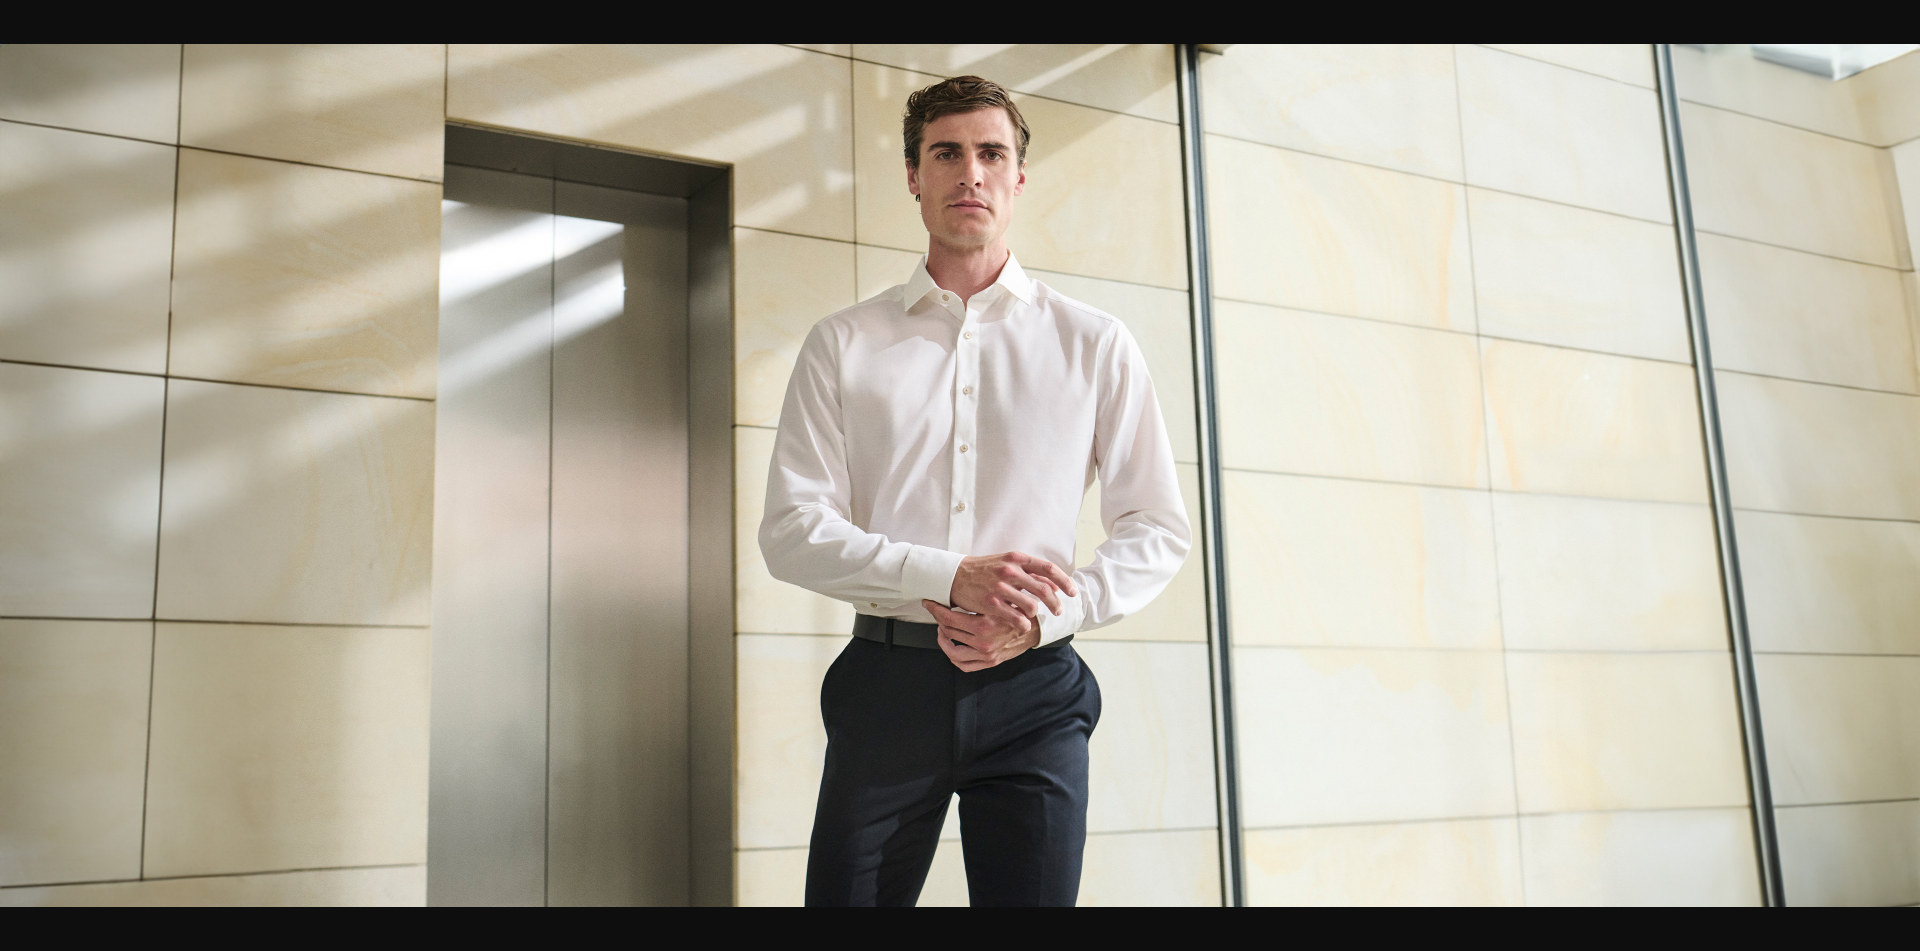
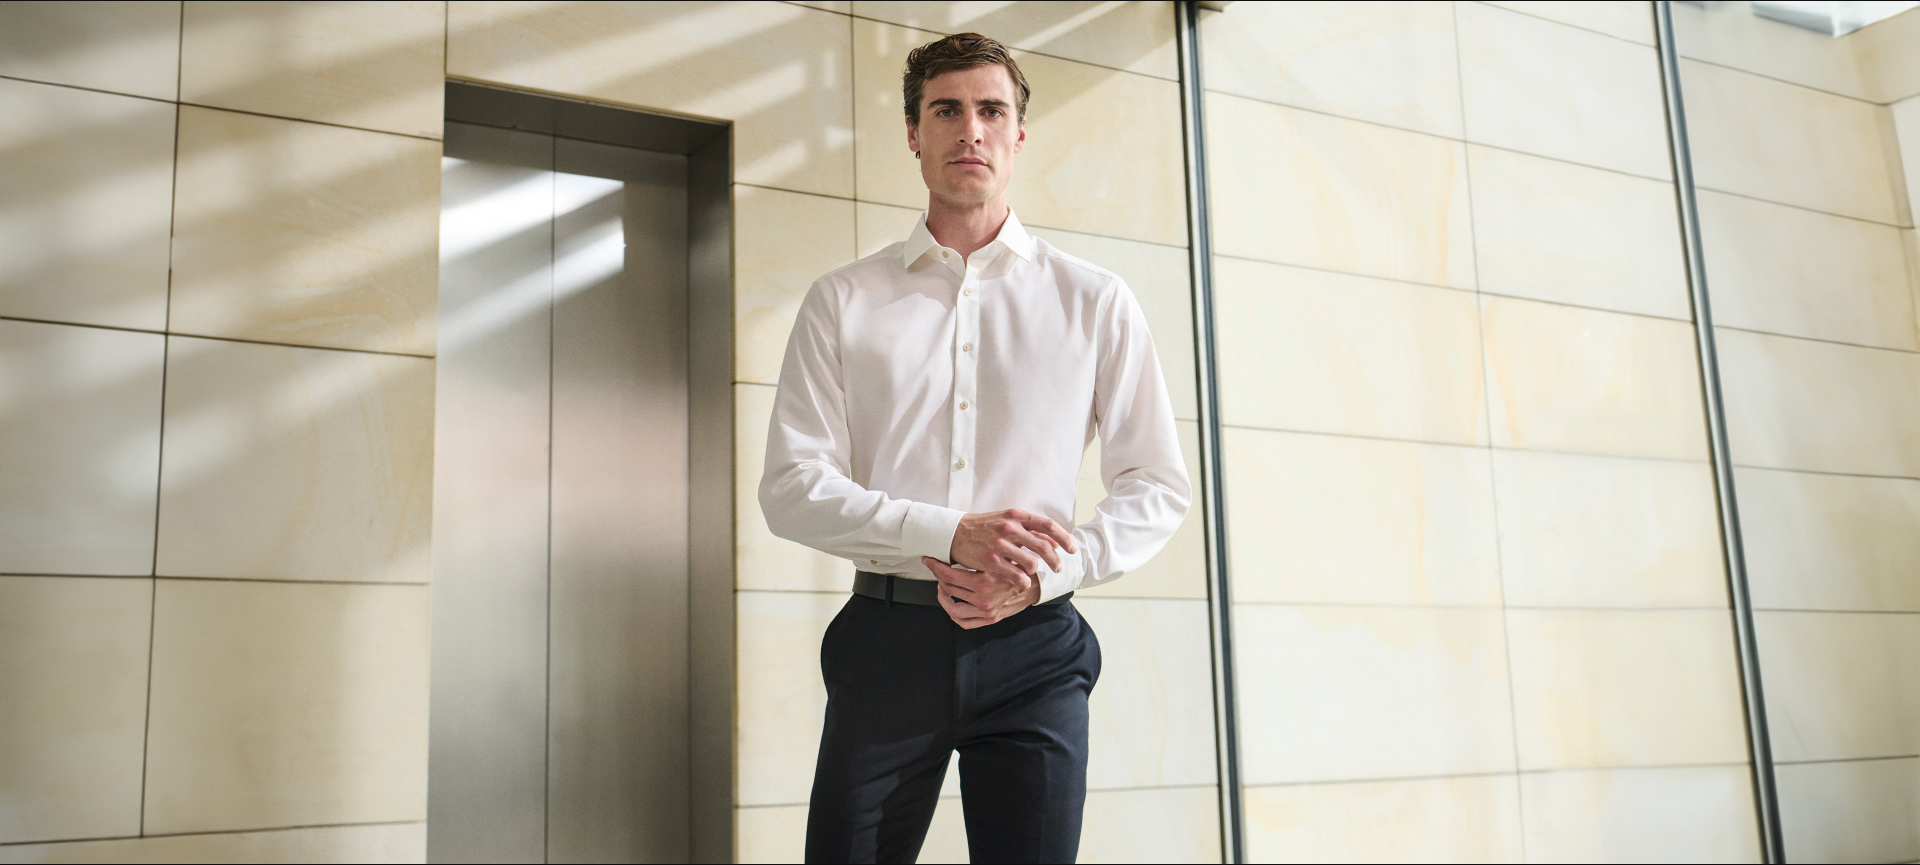
css

diff --git a/htmloldalak/style.css b/htmloldalak/style.css
@@ -16,6 +16,7 @@
 
 body {
     width: 100%;
+    background-color: rgb(235, 235, 235);
 }
 
 /* navbar */
@@ -32,6 +33,7 @@ body {
     border-bottom: 1px solid rgb(0, 0, 0);
     flex-direction: row;
     position: sticky;
+    padding: 8px 80px;
 }
 
 #header2{
@@ -171,17 +173,17 @@ ul{
 
 /* index carousel */
 
-.carousel-item {
+#carouselresz .carousel-item {
     height: 800px;
     position: relative;
 }
-.carousel-item img {
+#carouselresz .carousel-item img {
     height: 100%;
     width: 100%;
     object-fit: cover;
     object-position: center;
 }
-.carousel-overlay {
+#carouselresz .carousel-overlay {
     position: absolute;
     top: 0;
     left: 0;
@@ -190,7 +192,7 @@ ul{
     background: rgba(0, 0, 0, 0.2);
     z-index: 1;
 }
-.carousel-caption {
+#carouselresz .carousel-caption {
     position: absolute;
     bottom: 10%;
     left: 50%;
@@ -198,21 +200,21 @@ ul{
     z-index: 2;
     text-align: center;
 }
-.carousel-caption h6 {
+#carouselresz .carousel-caption h6 {
     color: whitesmoke;
     margin-bottom: 10px;
 }
-.carousel-caption h2 {
+#carouselresz .carousel-caption h2 {
     color: white;
     margin-bottom: 20px;
 }
-.carousel-caption .btn {
+#carouselresz .carousel-caption .btn {
     color: white;
     background-color: transparent;
     border: 1px solid white;
 }
 
-.carousel-caption .btn:hover {
+#carouselresz .carousel-caption .btn:hover {
     color: black;
     background-color: white;
     border: 1px solid white;
@@ -276,6 +278,7 @@ ul{
     text-align:center;
     border-top: 2px solid black;
     border-bottom: 2px solid black;
+    background-color: white;
 }
   
 .ferfigorgmenu a {
@@ -382,6 +385,36 @@ ul{
     height: 40px;
 }
 /* ferfi női termeket/produktok vége */
+
+/* termekpage */
+
+#termekpage{
+    padding-bottom: 50px;
+}
+
+.productermekkepadat{
+    border: 1px solid rgb(174, 174, 174);
+    padding: 10px;
+    background-color: white;
+}
+
+#productpageadatok {
+    display: flex;
+    flex-direction: column;
+    justify-content: center; /* Vertically centers content */
+    padding: 50px 30px;
+}
+#productpageadatok .form-group {
+    margin-bottom: 15px; /* Adds spacing between form elements */
+}
+
+#termekpage .carousel-item img {
+    object-fit: cover;
+    object-position: center;
+} 
+
+/* termekpage vége */ 
+
 
 /* footer */
 

diff --git a/htmloldalak/productpage.html b/htmloldalak/productpage.html
@@ -58,6 +58,7 @@
 
     <section id="termekpage">
     <div class="container mt-5">
+        <div class="productermekkepadat">
         <div class="row">
             <!-- Carousel on the left -->
             <div class="col-md-6">
@@ -119,6 +120,7 @@
                     <button class="btn btn-dark rounded-0 w-100">Kosárba tesz</button>
                 </div>
             </div>
+        </div>
         </div>
     </div>
     </section>
